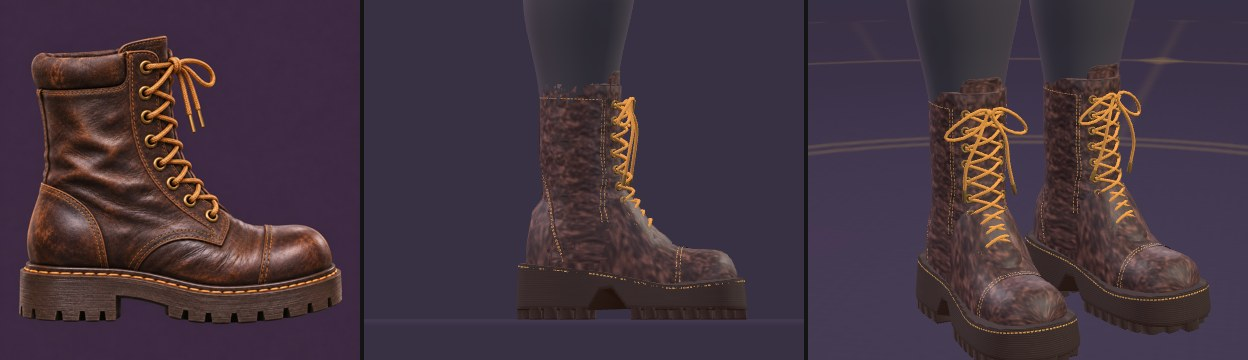
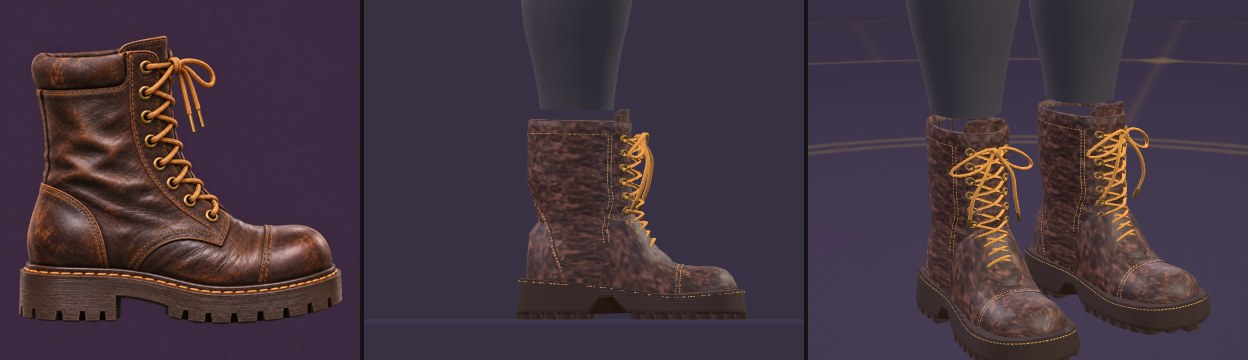
Fox 3D: boots reshaped to painting E1, bracelets on springs
The boot's outline was measured in E1 as fractions of its length: the
sole is thinner, the shaft shorter and deeper at the collar. Each strand
of beads now tips and knocks on its own spring, limited to 24 degrees.
Hand size checked beside A1 at one scale.

Claude-Session: https://claude.ai/code/session_0193WyVALgV3KH6ve8d5W2VN

Changed region(s): [[0.7188, 0.1833, 0.9688, 0.9778], [0.4062, 0.2139, 0.5938, 0.825], [0.4688, 0.8556, 0.5, 0.8861]]

diff --git a/models/fox-3d/deliver/Fox_Witch_3D.html b/models/fox-3d/deliver/Fox_Witch_3D.html
@@ -349,9 +349,14 @@ function makeFox(opts) {
   // part = { pos: [x,y,z,...], uv: [u,v,...], idx: [...] }; wf(x, y, z, i) -> [bone, weight, ...] (up to 4 pairs)
   // o.out: a point the surface should face away from (winding is fixed to match); o.flip: reverse the winding
   const FOX_SKIP = { wine: 1, cloth: 1, sock: 1, hair: 1, cap: 1, velvet: 1, fur: 1, ruffle: 1, gold: 1, gem: 1, leather: 1, bells: 1, bellslit: 1, pearl: 1 };   // the Jester's costume: sleeves, sock, cap, horns, pompoms, ruff and cuffs, pendant, belt, bells
+  const FOX_BOOT = { boot: 1, sole: 1, stitch: 1, eyelet: 1, lace: 1, aglet: 1 };
   function addPart(key, part, wf, o) {
     o = o || {};
     if (FOX_SKIP[key]) return { key, start: 0, count: 0 };
+    if (FOX_BOOT[key]) {                             // her boot's shape (painting E1, measured as fractions of its length): thinner sole, shorter shaft, deeper at the padded collar
+      const p = part.pos;
+      for (let i = 0; i < p.length; i += 3) { const y = p[i + 1]; if (y < 0.30) { p[i + 2] = -0.012 + (p[i + 2] + 0.012) * (1 + 0.28 * sm(0.09, 0.20, y)); p[i + 1] = y < 0.066 ? y * 0.757 : 0.050 + (y - 0.066) * 0.878; } }
+    }
     const B = bucket(key), pos = part.pos, n = pos.length / 3; let idx = part.idx;
     let nor = o.nor || computeNormals(pos, idx, o.weld);            // o.nor: normals worked out by the caller
     let flip = !!o.flip;
@@ -775,6 +780,7 @@ function makeFox(opts) {
     if (sLen < L_UARM + 0.05) { const u = sm(L_UARM - 0.05, L_UARM + 0.05, sLen); return [BI['uarm' + S], 1 - u, BI['farm' + S], u]; }
     const u = sm(L_UARM + L_FARM - 0.02, L_UARM + L_FARM + 0.012, sLen); return [BI['farm' + S], 1 - u, BI['hand' + S], u];
   }
+  const braceletChains = [];                       // each strand of beads hangs on its own little spring, so the three knock about out of step
   for (const [S, s] of SIDES) {
     const d = armDir[S], sh = restPts['sh' + S], NS = Q(40, 18), NU = Q(28, 14);
     {                                              // the arm
@@ -786,7 +792,9 @@ function makeFox(opts) {
     {                                              // her bracelets (F2), three strands stacked above each wrist: large dark wood beads, small gold ones, medium wood ones
       const bz = V3(0, 0, 1), by = V3().crossVectors(bz, d).normalize(), bx = V3().crossVectors(d, by).normalize();
       for (const [sl, br, nb, key, ph] of [[0.4130, 0.0056, 13, 'woodbead', 0.0], [0.4285, 0.0031, 27, 'bellm', 0.3], [0.4420, 0.0040, 20, 'woodbead', 0.7]]) {
-        const c = sh.clone().addScaledVector(d, sl), R = spline(ARM_R, sl) + br * 0.80, wf = (() => { const w = wArm(S, sl); return () => w; })();
+        const c = sh.clone().addScaledVector(d, sl), R = spline(ARM_R, sl) + br * 0.80, c2 = c.clone().addScaledVector(d, 0.035), bn = 'br' + S + Math.round(sl * 1000);
+        addBone(bn + 'a', 'farm' + S, c.x, c.y, c.z); addBone(bn + 'b', bn + 'a', c2.x, c2.y, c2.z); braceletChains.push({ names: [bn + 'a', bn + 'b'], anchor: 'farm' + S, k: 0.14 + 0.5 * br * 20 });
+        const wf = (() => { const w = [BI[bn + 'a'], 1]; return () => w; })();
         for (let k = 0; k < nb; k++) {
           const a = ph + (k / nb) * TAU, q = c.clone().addScaledVector(bx, Math.cos(a) * R).addScaledVector(by, Math.sin(a) * R * 0.94);
           addPart(key, spherePart(q, br, br, br, 8, 6), wf, { out: q });
@@ -817,7 +825,7 @@ function makeFox(opts) {
     [0.686, [0.088, 0.0995, 0.0995, 0.0900, 0.033]], [0.652, [0.079, 0.0928, 0.0928, 0.0880, 0.031]], [0.618, [0.072, 0.0832, 0.0832, 0.0870, 0.029]], [0.585, [0.066, 0.0731, 0.0731, 0.0860, 0.028]],
     [0.551, [0.0621, 0.0664, 0.0664, 0.0855, 0.0236]], [0.517, [0.0576, 0.0619, 0.0619, 0.0850, 0.0146]], [0.483, [0.057, 0.0602, 0.0602, 0.0845, 0.0018]], [0.450, [0.063, 0.0635, 0.0635, 0.0845, -0.0084]],
     [0.416, [0.0663, 0.067, 0.067, 0.0840, -0.0118]], [0.382, [0.0653, 0.0658, 0.0658, 0.0835, -0.014]], [0.348, [0.0596, 0.0613, 0.0613, 0.0830, -0.0152]], [0.315, [0.0522, 0.054, 0.054, 0.0825, -0.0146]],
-    [0.281, [0.0455, 0.0475, 0.0475, 0.0820, -0.0129]], [0.247, [0.0400, 0.0430, 0.0430, 0.0815, -0.0118]]];
+    [0.281, [0.0455, 0.0475, 0.0475, 0.0820, -0.0129]], [0.247, [0.0400, 0.0430, 0.0430, 0.0815, -0.0118]], [0.200, [0.0385, 0.0415, 0.0420, 0.0815, -0.0118]]];
   const LEG_UP = LEG.slice().reverse();              // spline() wants heights rising
   function wLeg(S, y) {
     if (y > 0.78) { const u = sm(0.78, 0.87, y); return [BI['thigh' + S], 1 - u, BI.hips, u]; }
@@ -2443,6 +2451,11 @@ function makeFox(opts) {
   const chains = [];
   for (const [S, s] of SIDES) chains.push(makeChain(hornChains[S].names, 'head', { stiff: [1, 0.55, 0.42, 0.33, 0.27, 0.22, 0.10], damp: 0.90, grav: 3.2, gw: [0, 0.2, 0.3, 0.4, 0.5, 0.6, 2.2] }));
   for (const names of hairChains) chains.push(makeChain(names, 'head', names.length === 3 ? { stiff: [1, 0.62, 0.46], damp: 0.88, grav: 1.4, gw: [0, 0.4, 0.7] } : { stiff: [1, 0.34, 0.22, 0.16], damp: 0.90, grav: 2.6, gw: [0, 0.6, 1.0, 1.4] }));      // her loose hair; the bun (three bones) is held firmer
+  for (const c of braceletChains) {                // her bracelets: each strand tips and knocks on its own spring, but never more than 24 degrees, so it cannot swing through her arm
+    const ch = makeChain(c.names, c.anchor, { stiff: [1, c.k], damp: 0.90, grav: 5.0, gw: [0, 1] }), b = SK[c.names[0]], inner = ch.update, qi = new THREE.Quaternion();
+    ch.update = (dt) => { inner(dt); const a = 2 * Math.acos(Math.min(1, Math.abs(b.quaternion.w))); if (a > 0.42) b.quaternion.copy(qi.set(0, 0, 0, 1).slerp(b.quaternion, 0.42 / a)); };
+    chains.push(ch);
+  }
   const hipsInv = new THREE.Matrix4(), bellChain = makeChain(['bell0', 'bell1', 'bell2', 'bell3'], 'hips', { stiff: [1, 0.02, 0.012, 0.008], damp: 0.965, grav: 9.0, collide(p, i) {
     _va.copy(p).applyMatrix4(hipsInv); const y = cl(_va.y + SK.hips.userData.rest.y - (i === 3 ? 0.03 : 0), 0.3, 0.985), [rx, rz] = prof(SKIRT_R, y, true), m = 0.034 + (i === 3 ? 0.012 : 0), zc = skirtZc(y);
     const q = Math.pow(_va.x / (rx + m), 2) + Math.pow((_va.z - zc) / (rz + m), 2);

diff --git a/models/fox-3d/out/fox.js b/models/fox-3d/out/fox.js
@@ -172,9 +172,14 @@ function makeFox(opts) {
   // part = { pos: [x,y,z,...], uv: [u,v,...], idx: [...] }; wf(x, y, z, i) -> [bone, weight, ...] (up to 4 pairs)
   // o.out: a point the surface should face away from (winding is fixed to match); o.flip: reverse the winding
   const FOX_SKIP = { wine: 1, cloth: 1, sock: 1, hair: 1, cap: 1, velvet: 1, fur: 1, ruffle: 1, gold: 1, gem: 1, leather: 1, bells: 1, bellslit: 1, pearl: 1 };   // the Jester's costume: sleeves, sock, cap, horns, pompoms, ruff and cuffs, pendant, belt, bells
+  const FOX_BOOT = { boot: 1, sole: 1, stitch: 1, eyelet: 1, lace: 1, aglet: 1 };
   function addPart(key, part, wf, o) {
     o = o || {};
     if (FOX_SKIP[key]) return { key, start: 0, count: 0 };
+    if (FOX_BOOT[key]) {                             // her boot's shape (painting E1, measured as fractions of its length): thinner sole, shorter shaft, deeper at the padded collar
+      const p = part.pos;
+      for (let i = 0; i < p.length; i += 3) { const y = p[i + 1]; if (y < 0.30) { p[i + 2] = -0.012 + (p[i + 2] + 0.012) * (1 + 0.28 * sm(0.09, 0.20, y)); p[i + 1] = y < 0.066 ? y * 0.757 : 0.050 + (y - 0.066) * 0.878; } }
+    }
     const B = bucket(key), pos = part.pos, n = pos.length / 3; let idx = part.idx;
     let nor = o.nor || computeNormals(pos, idx, o.weld);            // o.nor: normals worked out by the caller
     let flip = !!o.flip;
@@ -598,6 +603,7 @@ function makeFox(opts) {
     if (sLen < L_UARM + 0.05) { const u = sm(L_UARM - 0.05, L_UARM + 0.05, sLen); return [BI['uarm' + S], 1 - u, BI['farm' + S], u]; }
     const u = sm(L_UARM + L_FARM - 0.02, L_UARM + L_FARM + 0.012, sLen); return [BI['farm' + S], 1 - u, BI['hand' + S], u];
   }
+  const braceletChains = [];                       // each strand of beads hangs on its own little spring, so the three knock about out of step
   for (const [S, s] of SIDES) {
     const d = armDir[S], sh = restPts['sh' + S], NS = Q(40, 18), NU = Q(28, 14);
     {                                              // the arm
@@ -609,7 +615,9 @@ function makeFox(opts) {
     {                                              // her bracelets (F2), three strands stacked above each wrist: large dark wood beads, small gold ones, medium wood ones
       const bz = V3(0, 0, 1), by = V3().crossVectors(bz, d).normalize(), bx = V3().crossVectors(d, by).normalize();
       for (const [sl, br, nb, key, ph] of [[0.4130, 0.0056, 13, 'woodbead', 0.0], [0.4285, 0.0031, 27, 'bellm', 0.3], [0.4420, 0.0040, 20, 'woodbead', 0.7]]) {
-        const c = sh.clone().addScaledVector(d, sl), R = spline(ARM_R, sl) + br * 0.80, wf = (() => { const w = wArm(S, sl); return () => w; })();
+        const c = sh.clone().addScaledVector(d, sl), R = spline(ARM_R, sl) + br * 0.80, c2 = c.clone().addScaledVector(d, 0.035), bn = 'br' + S + Math.round(sl * 1000);
+        addBone(bn + 'a', 'farm' + S, c.x, c.y, c.z); addBone(bn + 'b', bn + 'a', c2.x, c2.y, c2.z); braceletChains.push({ names: [bn + 'a', bn + 'b'], anchor: 'farm' + S, k: 0.14 + 0.5 * br * 20 });
+        const wf = (() => { const w = [BI[bn + 'a'], 1]; return () => w; })();
         for (let k = 0; k < nb; k++) {
           const a = ph + (k / nb) * TAU, q = c.clone().addScaledVector(bx, Math.cos(a) * R).addScaledVector(by, Math.sin(a) * R * 0.94);
           addPart(key, spherePart(q, br, br, br, 8, 6), wf, { out: q });
@@ -640,7 +648,7 @@ function makeFox(opts) {
     [0.686, [0.088, 0.0995, 0.0995, 0.0900, 0.033]], [0.652, [0.079, 0.0928, 0.0928, 0.0880, 0.031]], [0.618, [0.072, 0.0832, 0.0832, 0.0870, 0.029]], [0.585, [0.066, 0.0731, 0.0731, 0.0860, 0.028]],
     [0.551, [0.0621, 0.0664, 0.0664, 0.0855, 0.0236]], [0.517, [0.0576, 0.0619, 0.0619, 0.0850, 0.0146]], [0.483, [0.057, 0.0602, 0.0602, 0.0845, 0.0018]], [0.450, [0.063, 0.0635, 0.0635, 0.0845, -0.0084]],
     [0.416, [0.0663, 0.067, 0.067, 0.0840, -0.0118]], [0.382, [0.0653, 0.0658, 0.0658, 0.0835, -0.014]], [0.348, [0.0596, 0.0613, 0.0613, 0.0830, -0.0152]], [0.315, [0.0522, 0.054, 0.054, 0.0825, -0.0146]],
-    [0.281, [0.0455, 0.0475, 0.0475, 0.0820, -0.0129]], [0.247, [0.0400, 0.0430, 0.0430, 0.0815, -0.0118]]];
+    [0.281, [0.0455, 0.0475, 0.0475, 0.0820, -0.0129]], [0.247, [0.0400, 0.0430, 0.0430, 0.0815, -0.0118]], [0.200, [0.0385, 0.0415, 0.0420, 0.0815, -0.0118]]];
   const LEG_UP = LEG.slice().reverse();              // spline() wants heights rising
   function wLeg(S, y) {
     if (y > 0.78) { const u = sm(0.78, 0.87, y); return [BI['thigh' + S], 1 - u, BI.hips, u]; }
@@ -2266,6 +2274,11 @@ function makeFox(opts) {
   const chains = [];
   for (const [S, s] of SIDES) chains.push(makeChain(hornChains[S].names, 'head', { stiff: [1, 0.55, 0.42, 0.33, 0.27, 0.22, 0.10], damp: 0.90, grav: 3.2, gw: [0, 0.2, 0.3, 0.4, 0.5, 0.6, 2.2] }));
   for (const names of hairChains) chains.push(makeChain(names, 'head', names.length === 3 ? { stiff: [1, 0.62, 0.46], damp: 0.88, grav: 1.4, gw: [0, 0.4, 0.7] } : { stiff: [1, 0.34, 0.22, 0.16], damp: 0.90, grav: 2.6, gw: [0, 0.6, 1.0, 1.4] }));      // her loose hair; the bun (three bones) is held firmer
+  for (const c of braceletChains) {                // her bracelets: each strand tips and knocks on its own spring, but never more than 24 degrees, so it cannot swing through her arm
+    const ch = makeChain(c.names, c.anchor, { stiff: [1, c.k], damp: 0.90, grav: 5.0, gw: [0, 1] }), b = SK[c.names[0]], inner = ch.update, qi = new THREE.Quaternion();
+    ch.update = (dt) => { inner(dt); const a = 2 * Math.acos(Math.min(1, Math.abs(b.quaternion.w))); if (a > 0.42) b.quaternion.copy(qi.set(0, 0, 0, 1).slerp(b.quaternion, 0.42 / a)); };
+    chains.push(ch);
+  }
   const hipsInv = new THREE.Matrix4(), bellChain = makeChain(['bell0', 'bell1', 'bell2', 'bell3'], 'hips', { stiff: [1, 0.02, 0.012, 0.008], damp: 0.965, grav: 9.0, collide(p, i) {
     _va.copy(p).applyMatrix4(hipsInv); const y = cl(_va.y + SK.hips.userData.rest.y - (i === 3 ? 0.03 : 0), 0.3, 0.985), [rx, rz] = prof(SKIRT_R, y, true), m = 0.034 + (i === 3 ? 0.012 : 0), zc = skirtZc(y);
     const q = Math.pow(_va.x / (rx + m), 2) + Math.pow((_va.z - zc) / (rz + m), 2);

diff --git a/models/fox-3d/src/30_body.js b/models/fox-3d/src/30_body.js
@@ -70,6 +70,7 @@
     if (sLen < L_UARM + 0.05) { const u = sm(L_UARM - 0.05, L_UARM + 0.05, sLen); return [BI['uarm' + S], 1 - u, BI['farm' + S], u]; }
     const u = sm(L_UARM + L_FARM - 0.02, L_UARM + L_FARM + 0.012, sLen); return [BI['farm' + S], 1 - u, BI['hand' + S], u];
   }
+  const braceletChains = [];                       // each strand of beads hangs on its own little spring, so the three knock about out of step
   for (const [S, s] of SIDES) {
     const d = armDir[S], sh = restPts['sh' + S], NS = Q(40, 18), NU = Q(28, 14);
     {                                              // the arm
@@ -81,7 +82,9 @@
     {                                              // her bracelets (F2), three strands stacked above each wrist: large dark wood beads, small gold ones, medium wood ones
       const bz = V3(0, 0, 1), by = V3().crossVectors(bz, d).normalize(), bx = V3().crossVectors(d, by).normalize();
       for (const [sl, br, nb, key, ph] of [[0.4130, 0.0056, 13, 'woodbead', 0.0], [0.4285, 0.0031, 27, 'bellm', 0.3], [0.4420, 0.0040, 20, 'woodbead', 0.7]]) {
-        const c = sh.clone().addScaledVector(d, sl), R = spline(ARM_R, sl) + br * 0.80, wf = (() => { const w = wArm(S, sl); return () => w; })();
+        const c = sh.clone().addScaledVector(d, sl), R = spline(ARM_R, sl) + br * 0.80, c2 = c.clone().addScaledVector(d, 0.035), bn = 'br' + S + Math.round(sl * 1000);
+        addBone(bn + 'a', 'farm' + S, c.x, c.y, c.z); addBone(bn + 'b', bn + 'a', c2.x, c2.y, c2.z); braceletChains.push({ names: [bn + 'a', bn + 'b'], anchor: 'farm' + S, k: 0.14 + 0.5 * br * 20 });
+        const wf = (() => { const w = [BI[bn + 'a'], 1]; return () => w; })();
         for (let k = 0; k < nb; k++) {
           const a = ph + (k / nb) * TAU, q = c.clone().addScaledVector(bx, Math.cos(a) * R).addScaledVector(by, Math.sin(a) * R * 0.94);
           addPart(key, spherePart(q, br, br, br, 8, 6), wf, { out: q });
@@ -112,7 +115,7 @@
     [0.686, [0.088, 0.0995, 0.0995, 0.0900, 0.033]], [0.652, [0.079, 0.0928, 0.0928, 0.0880, 0.031]], [0.618, [0.072, 0.0832, 0.0832, 0.0870, 0.029]], [0.585, [0.066, 0.0731, 0.0731, 0.0860, 0.028]],
     [0.551, [0.0621, 0.0664, 0.0664, 0.0855, 0.0236]], [0.517, [0.0576, 0.0619, 0.0619, 0.0850, 0.0146]], [0.483, [0.057, 0.0602, 0.0602, 0.0845, 0.0018]], [0.450, [0.063, 0.0635, 0.0635, 0.0845, -0.0084]],
     [0.416, [0.0663, 0.067, 0.067, 0.0840, -0.0118]], [0.382, [0.0653, 0.0658, 0.0658, 0.0835, -0.014]], [0.348, [0.0596, 0.0613, 0.0613, 0.0830, -0.0152]], [0.315, [0.0522, 0.054, 0.054, 0.0825, -0.0146]],
-    [0.281, [0.0455, 0.0475, 0.0475, 0.0820, -0.0129]], [0.247, [0.0400, 0.0430, 0.0430, 0.0815, -0.0118]]];
+    [0.281, [0.0455, 0.0475, 0.0475, 0.0820, -0.0129]], [0.247, [0.0400, 0.0430, 0.0430, 0.0815, -0.0118]], [0.200, [0.0385, 0.0415, 0.0420, 0.0815, -0.0118]]];
   const LEG_UP = LEG.slice().reverse();              // spline() wants heights rising
   function wLeg(S, y) {
     if (y > 0.78) { const u = sm(0.78, 0.87, y); return [BI['thigh' + S], 1 - u, BI.hips, u]; }

diff --git a/models/fox-3d/src/70_anim.js b/models/fox-3d/src/70_anim.js
@@ -259,6 +259,11 @@
   const chains = [];
   for (const [S, s] of SIDES) chains.push(makeChain(hornChains[S].names, 'head', { stiff: [1, 0.55, 0.42, 0.33, 0.27, 0.22, 0.10], damp: 0.90, grav: 3.2, gw: [0, 0.2, 0.3, 0.4, 0.5, 0.6, 2.2] }));
   for (const names of hairChains) chains.push(makeChain(names, 'head', names.length === 3 ? { stiff: [1, 0.62, 0.46], damp: 0.88, grav: 1.4, gw: [0, 0.4, 0.7] } : { stiff: [1, 0.34, 0.22, 0.16], damp: 0.90, grav: 2.6, gw: [0, 0.6, 1.0, 1.4] }));      // her loose hair; the bun (three bones) is held firmer
+  for (const c of braceletChains) {                // her bracelets: each strand tips and knocks on its own spring, but never more than 24 degrees, so it cannot swing through her arm
+    const ch = makeChain(c.names, c.anchor, { stiff: [1, c.k], damp: 0.90, grav: 5.0, gw: [0, 1] }), b = SK[c.names[0]], inner = ch.update, qi = new THREE.Quaternion();
+    ch.update = (dt) => { inner(dt); const a = 2 * Math.acos(Math.min(1, Math.abs(b.quaternion.w))); if (a > 0.42) b.quaternion.copy(qi.set(0, 0, 0, 1).slerp(b.quaternion, 0.42 / a)); };
+    chains.push(ch);
+  }
   const hipsInv = new THREE.Matrix4(), bellChain = makeChain(['bell0', 'bell1', 'bell2', 'bell3'], 'hips', { stiff: [1, 0.02, 0.012, 0.008], damp: 0.965, grav: 9.0, collide(p, i) {
     _va.copy(p).applyMatrix4(hipsInv); const y = cl(_va.y + SK.hips.userData.rest.y - (i === 3 ? 0.03 : 0), 0.3, 0.985), [rx, rz] = prof(SKIRT_R, y, true), m = 0.034 + (i === 3 ? 0.012 : 0), zc = skirtZc(y);
     const q = Math.pow(_va.x / (rx + m), 2) + Math.pow((_va.z - zc) / (rz + m), 2);

diff --git a/models/fox-3d/src/10_geom.js b/models/fox-3d/src/10_geom.js
@@ -94,9 +94,14 @@
   // part = { pos: [x,y,z,...], uv: [u,v,...], idx: [...] }; wf(x, y, z, i) -> [bone, weight, ...] (up to 4 pairs)
   // o.out: a point the surface should face away from (winding is fixed to match); o.flip: reverse the winding
   const FOX_SKIP = { wine: 1, cloth: 1, sock: 1, hair: 1, cap: 1, velvet: 1, fur: 1, ruffle: 1, gold: 1, gem: 1, leather: 1, bells: 1, bellslit: 1, pearl: 1 };   // the Jester's costume: sleeves, sock, cap, horns, pompoms, ruff and cuffs, pendant, belt, bells
+  const FOX_BOOT = { boot: 1, sole: 1, stitch: 1, eyelet: 1, lace: 1, aglet: 1 };
   function addPart(key, part, wf, o) {
     o = o || {};
     if (FOX_SKIP[key]) return { key, start: 0, count: 0 };
+    if (FOX_BOOT[key]) {                             // her boot's shape (painting E1, measured as fractions of its length): thinner sole, shorter shaft, deeper at the padded collar
+      const p = part.pos;
+      for (let i = 0; i < p.length; i += 3) { const y = p[i + 1]; if (y < 0.30) { p[i + 2] = -0.012 + (p[i + 2] + 0.012) * (1 + 0.28 * sm(0.09, 0.20, y)); p[i + 1] = y < 0.066 ? y * 0.757 : 0.050 + (y - 0.066) * 0.878; } }
+    }
     const B = bucket(key), pos = part.pos, n = pos.length / 3; let idx = part.idx;
     let nor = o.nor || computeNormals(pos, idx, o.weld);            // o.nor: normals worked out by the caller
     let flip = !!o.flip;
